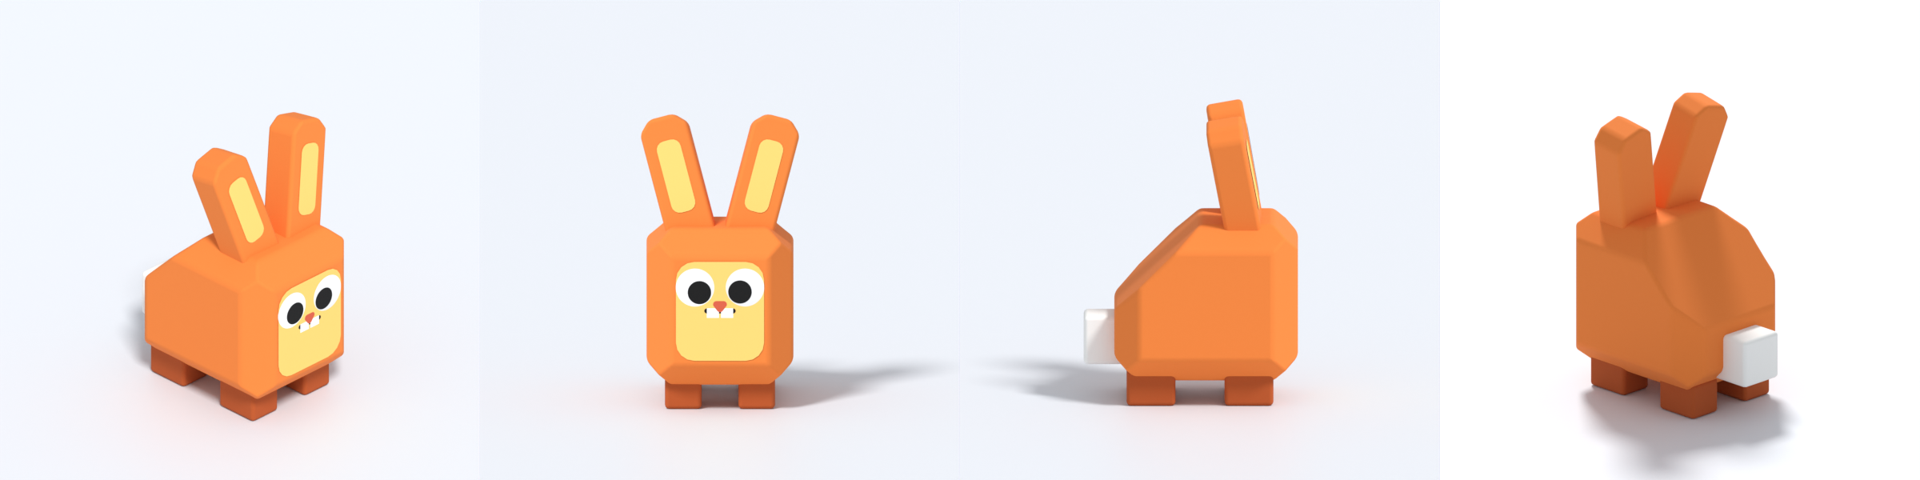
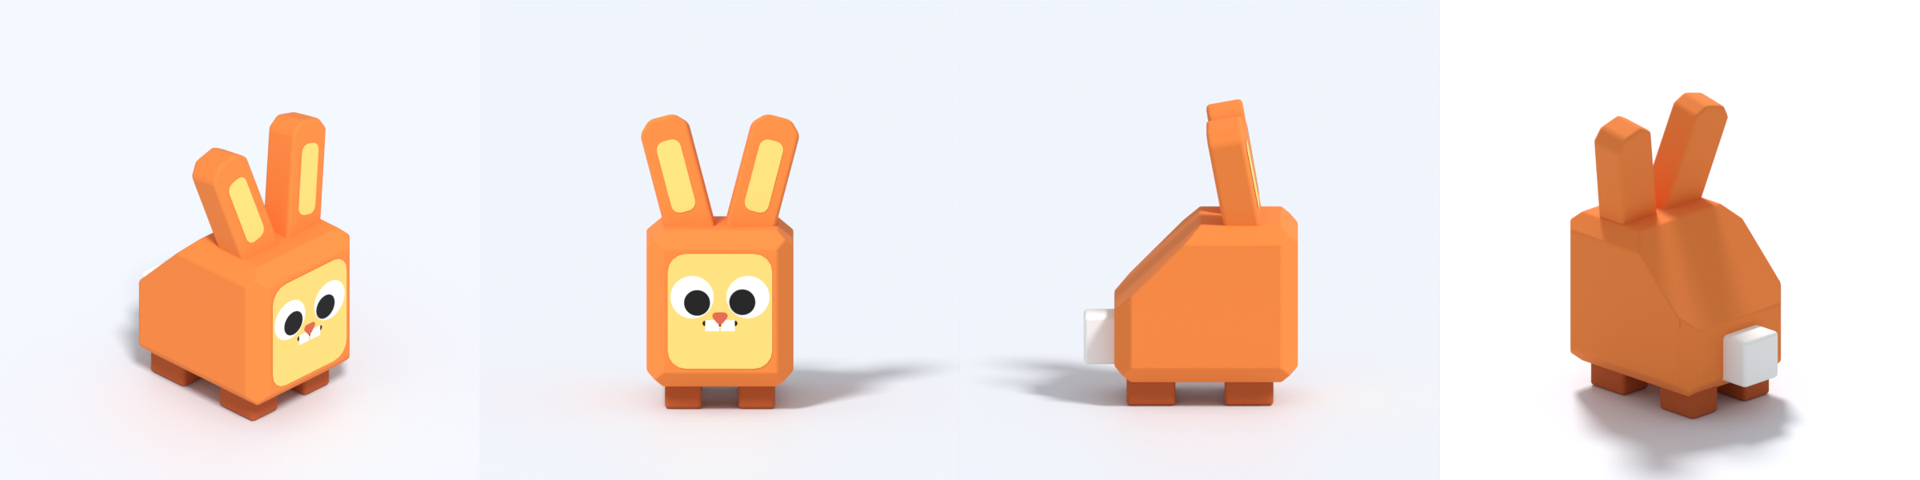
Rounded cube bunny: bevels a third smaller, a bigger face
Claude-Session: https://claude.ai/code/session_01RRjPcssmw86k8yzoijijLA

diff --git a/tools/blender/build_bunny.py b/tools/blender/build_bunny.py
@@ -431,6 +431,8 @@ elif VARIANT == "cube":
             [((X, Z), (s1, s2)) for s1 in (1, -1) for s2 in (1, -1)] + \
             [((Y, Z), (1, 1)), ((Y, Z), (-1, 1)), ((Y, Z), (-1, -1))]
     r, facets = {0: (2, 1), 1: (3, 1)}.get(SOFT, (3, 2))
+    if ROUNDED and SOFT == 0:
+        r = 4 / 3                     # a third smaller, for a bigger face (off the whole-voxel lattice)
     for axes, signs in small:
         round_edge(body, box, axes, signs, r, facets)
     if SOFT >= 3:
@@ -464,8 +466,9 @@ elif VARIANT == "cube":
     face_uvs(body_ob, 8, 10.5 if flat <= 2 else 10, face_size)
     if ROUNDED:                       # the panel as a plate, inset to clear the fillet, the face decal on it
         inset = flat + 0.4
+        face_size = 0.95 * (12 - 2 * inset) / 0.66                              # fill the plate, with a margin
         face_uvs(plate("PlateFace", body_ob, (0, 0, 0), -6 + inset, 6 - inset, 2 + inset, 15 - inset, 8, 1.5, FACE),
-                 8 + PLATE_PROUD, 10.5, face_size)
+                 8 + PLATE_PROUD, 9.7, face_size)                                # lower: centred, room for the open mouth
     for sx in (1, -1):
         ear("Ear" + ("R" if sx > 0 else "L"), sx, sx * 2.5, 15, 2, 4, 3, 11, 2, pitch=10, splay=15,
             tip=0 if SOFT >= 2 else 1, tip_round=(2, 2) if SOFT >= 2 else None, plate_inner=ROUNDED, **ear_cols[sx])
